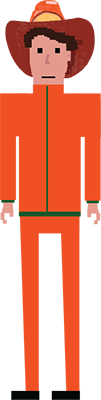
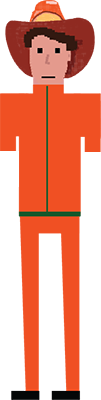
Brad's tablet is now in the game and he can slap with it by clicking.

Changed region(s): [[0.0, 0.36, 0.2079, 0.57], [0.8317, 0.36, 1.0, 0.57]]

diff --git a/js/GameEngine.js b/js/GameEngine.js
@@ -1,5 +1,6 @@
 define(function(require, exports, module) {
 
+	var Engine = require('famous/core/Engine');
 	var Transform = require('famous/core/Transform');
 	var Easing = require('famous/transitions/Easing');
 	var Timer = require('famous/utilities/Timer');
@@ -32,6 +33,14 @@ define(function(require, exports, module) {
 
     	this.placementIndexForRandom = 99;
     	this.smashableIndexForRandom = 0;
+
+    	/* HOOKS */
+
+    	Engine.on('click', function() {
+		  _slap.call(this);
+		}.bind(this));
+
+    	/* END HOOKS */
         
     }
 
@@ -88,7 +97,6 @@ define(function(require, exports, module) {
     }
 
 
-
     function _placeSmashable(type) {
     	
     	if(this.smashables.types[type].surfacesAvailable.length == 0) {
@@ -109,7 +117,7 @@ define(function(require, exports, module) {
 			);
 
 			this.smashables.types[type].modifierPool[index].setTransform(
-				Transform.translate(((130+this.conveyorDistance) * -1), 500, 0),
+				Transform.translate(((130 + this.conveyorDistance) * -1), 500, 0),
 				{ duration : 100, curve: Easing.inOutSine },
 				function() {
 					this.smashables.types[type].surfacePool[index].setProperties(
@@ -138,6 +146,20 @@ define(function(require, exports, module) {
 
     	}
     }
+
+  	function _slap() {
+
+  		this._gameObjects.bradsTabletModifier.setTransform(
+				Transform.translate(-550, 260, 0),
+			 	{ duration : 25 }
+		);
+
+		this._gameObjects.bradsTabletModifier.setTransform(
+				Transform.translate(-550, 215, 0),
+			 	{ duration : 25 }
+		);
+
+  	}
 
     function _generateRandomIndices() {
 

diff --git a/js/GameView.js b/js/GameView.js
@@ -64,7 +64,7 @@ define(function(require, exports, module) {
         })
 
         this.header.gameTitle = new Surface({
-          content: "Computer Slap",
+          content: "Brad's Slapapalooza",
           size: [true, true],
           classes: ["header"]
         });
@@ -133,9 +133,17 @@ define(function(require, exports, module) {
 
     function _addBrad() {
 
+      var bradsLocation = new Array(-550, 110);
+      var bradsTabletYOffset = 115;
+
+      this.gameObjects.bradsLocation = bradsLocation;
+
+      //How much farther the Tablet is offset on the Y axis from brad
+      this.gameObjects.bradsTabletYOffset = bradsTabletYOffset;
+
       this.gameObjects.bradModifier = new Modifier({
         origin: [1, 0],
-        transform : Transform.translate(-550, 150, 0)
+        transform : Transform.translate(bradsLocation[0], bradsLocation[1], 0)
       });
 
       this.gameObjects.brad = new Surface({
@@ -143,7 +151,18 @@ define(function(require, exports, module) {
         classes: ["brad"]
       })
 
+      this.gameObjects.bradsTabletModifier = new Modifier({
+        origin: [1, 0],
+        transform : Transform.translate(bradsLocation[0], (bradsLocation[1] + bradsTabletYOffset), 0)
+      });
+
+      this.gameObjects.bradsTablet = new Surface({
+        size: [101, 83],
+        classes: ["brads-tablet"]
+      })
+
       this.content.add(this.gameObjects.bradModifier).add(this.gameObjects.brad);
+      this.content.add(this.gameObjects.bradsTabletModifier).add(this.gameObjects.bradsTablet);
 
     }
 

diff --git a/js/Smashables.js b/js/Smashables.js
@@ -130,7 +130,7 @@ define(function(require, exports, module) {
 
             console.log(minGapDuration);
 
-            this.types[key].minGapDuration = minGapDuration;
+            this.types[key].minGapDuration = Math.round(minGapDuration);
         }
     }
 

diff --git a/css/main.css b/css/main.css
@@ -62,6 +62,11 @@ body {
     z-index: 0;
 }
 
+.brads-tablet {
+    background-image: url('../images/brads-arms-and-tablet.png');
+    z-index: 3;
+}
+
 
 /* Smashables */
 .smashables {
